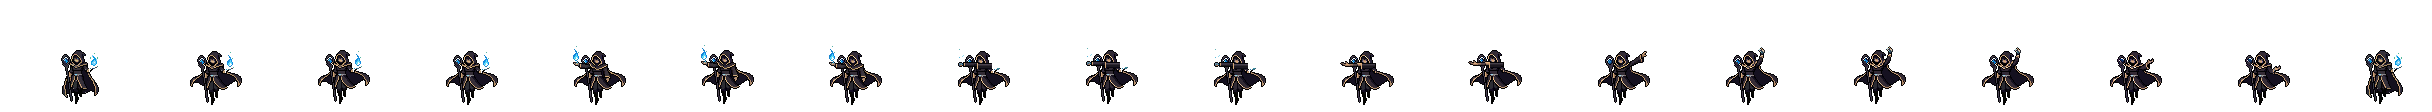
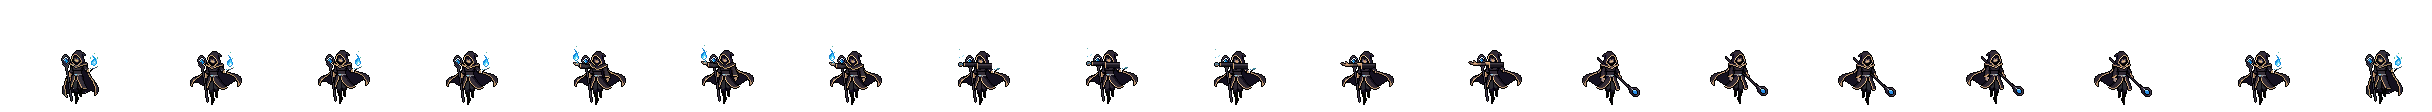
Meteor: pause after the crush, brief spark on the palm, turn away as the meteor drops
Claude-Session: https://claude.ai/code/session_01PAJQvS6MdJB9emcv35BH5f

Changed region(s): [[0.625, 0.4286, 0.9375, 0.9107]]

diff --git a/public/js/scene.js b/public/js/scene.js
@@ -51,7 +51,7 @@ export class BattleScene {
     this.shake = 0; this.shakeT = 0;
     this.trails = []; this.cam = null; this.stars = []; this.rings = []; this.ribbons = []; this.auras = [];
     this.zaps = []; this.ripples = []; this.residue = []; this.xhits = []; this.slivers = []; this.bigArcs = [];   // Champion's Combo: blade aura, ground ripples, leftover crackle
-    this.mets = [];   // Meteor: hand flame, spark, snap, the rock, its explosion and the fire it leaves
+    this.mets = [];   // Meteor: hand flame, spark, the rock, its explosion and the fire it leaves
     this.cracks = []; this.spikes = []; this.ghosts = [];
     this.slowmo = 1;   // <1 plays everything in slow motion (used by the /dev/lab.html animation lab)
     this.freezeUntil = 0;
@@ -888,10 +888,10 @@ export class BattleScene {
   _zig(a, b, n, j) { const pts = [a]; for (let i = 1; i < n; i++) pts.push({ x: lerp(a.x, b.x, i / n) + (Math.random() - 0.5) * j, y: lerp(a.y, b.y, i / n) + (Math.random() - 0.5) * j }); pts.push(b); return pts; }
 
   // Meteor with its PixelLab animation (anims.meteor): the mage floats up, thrusts the flame in her hand out at the enemy
-  // (pointAt), crushes it (crushAt),
-  // opens it on a tiny spark (openAt) that shoots up off the screen (sparkAt), raises her arm and snaps her fingers
-  // (snapAt). A giant meteor then streaks in from the top right and lands on the middle of the enemies (hit): fireball,
-  // shockwave, cracks, rubble and fire left burning on the floor. She floats back down after it (downAt).
+  // (pointAt), crushes it (crushAt) and pauses, then opens her hand on a tiny spark (openAt) that sits a moment and shoots
+  // up off the screen (sparkAt). She turns her back on the enemy, staff pointed at the ground (turnAt), and a giant meteor
+  // streaks in from the top right behind her and lands on the middle of the enemies (hit): fireball, shockwave, cracks,
+  // rubble and fire left burning on the floor. Then she turns back and floats down (downAt).
   _meteorAnim(A, ev, T, anim) {
     const M = anim.meteor;
     const at = []; let acc = 0; for (const [, ms] of anim.timeline) { at.push(acc); acc += ms; }
@@ -915,8 +915,8 @@ export class BattleScene {
     const xs = ens.map(e => e.x), cx = ens.length ? xs.reduce((a, b) => a + b, 0) / xs.length : A.x - 160;
     const cy = ens.length ? ens.reduce((a, e) => a + e.y, 0) / ens.length : A.y;
     const spread = ens.length ? Math.max(56, (Math.max(...xs) - Math.min(...xs)) / 2 + 40) : 60;
-    // close-up on the mage until the snap, then the camera eases out so the meteor and the enemies fit
-    this.cam = { x: A.x - 4, y: A.y - 58, t0: at0, dur: T(at[M.snapAt] + 260), z: 1.12 };
+    // close-up on the mage until she turns away, then the camera eases out so the meteor and the enemies fit
+    this.cam = { x: A.x - 4, y: A.y - 58, t0: at0, dur: T(at[M.turnAt] + 260), z: 1.12 };
     // 1. she rises off the floor on a ring of light
     this.move(A, 0, -(M.lift || 30), T(at[2] + 120));
     this.rune(A.x, A.y, flame); this.burst(A.x, A.y - 2, '#d8c8b0', 10, 24, 20); sfx('cast');
@@ -939,20 +939,17 @@ export class BattleScene {
     });
     // 4. she opens her hand on a tiny spark, which shoots up and out of the top of the screen
     when(M.openAt, () => {
-      this.mets.push({ kind: 'spark', follow: palm, color: flame, t0: now(), hold: T(at[M.sparkAt] - at[M.openAt] + 120), fly: T(420), life: T(at[M.sparkAt] - at[M.openAt] + 120 + 420), pts: [] });
+      this.mets.push({ kind: 'spark', follow: palm, color: flame, t0: now(), hold: T(at[M.sparkAt] - at[M.openAt]), fly: T(420), life: T(at[M.sparkAt] - at[M.openAt] + 420), pts: [] });
       sfx('twinkle');
     });
-    when(M.sparkAt, () => { this.darken = { t0: now(), dur: T(at[anim.hit] - at[M.sparkAt] + 700) }; sfx('rise'); }, 120);
-    // 5. the snap: a click of light at her fingertips
-    when(M.snapAt, () => {
-      const tip = { x: A.x + A.ox + M.snapTip[0], y: A.y + A.oy + M.snapTip[1] };
-      this.mets.push({ kind: 'snap', x: tip.x, y: tip.y, t0: now(), life: T(260) });
-      this.glows.push({ x: tip.x, y: tip.y, r: 22, color: '#fff2c0', t: 0, life: 0.25, a: 0.9 });
-      this.flash = Math.max(this.flash || 0, 0.06);
-      sfx('snap');
+    when(M.sparkAt, () => { this.darken = { t0: now(), dur: T(at[anim.hit] - at[M.sparkAt] + 700) }; sfx('rise'); });
+    // 5. she turns her back on the enemy, staff pointed at the ground: a swish of her cloak
+    when(M.turnAt, () => {
+      for (let i = 0; i < 10; i++) this.particles.push({ x: A.x + A.ox + (Math.random() - 0.5) * 20, y: A.y + A.oy - 10 - Math.random() * 30, vx: 40 + Math.random() * 40, vy: (Math.random() - 0.5) * 20, g: 0, life: 0.3 + Math.random() * 0.2, t: 0, c: Math.random() < 0.5 ? '#8a7aa8' : '#cfc4e0', fade: true });
+      sfx('whoosh');
     });
     // 6. the meteor: its shadow and a burning ring mark the spot, the sky glows red, and it streaks in from the top right
-    const fallFrom = at[M.snapAt] + 120, fall = at[anim.hit] - fallFrom;
+    const fallFrom = at[M.turnAt] + 120, fall = at[anim.hit] - fallFrom;
     setTimeout(() => {
       this.mets.push({ kind: 'mark', x: cx, y: cy, w: spread, t0: now(), life: T(fall + 120) });
       this.mets.push({ kind: 'rock', from: { x: cx + 230, y: cy - 330 }, to: { x: cx, y: cy - 10 }, R: 36, t0: now(), life: T(fall), rot: Math.random() * 6,
@@ -972,9 +969,9 @@ export class BattleScene {
       this.impact(ev, tgt, 'meteor', rc);
       sfx('boom');
     });
-    // 8. she floats back down, and the flame lights up in her hand again
+    // 8. she turns back and floats down, and the flame lights up in her hand again
     when(M.downAt, () => this.move(A, 0, 0, T(acc - at[M.downAt])));
-    setTimeout(() => { const p = palm(); this.glows.push({ x: p.x, y: p.y, r: 18, color: flame, t: 0, life: 0.35, a: 0.8 }); this.burst(p.x, p.y, flame, 8, 20); }, T(acc - 120));
+    setTimeout(() => { const p = palm(); this.glows.push({ x: p.x, y: p.y, r: 18, color: flame, t: 0, life: 0.35, a: 0.8 }); this.burst(p.x, p.y, flame, 8, 20); }, T(at[M.downAt] + 40));
     setTimeout(() => { A.anim = null; this.move(A, 0, 0, T(120)); }, T(acc + 60));
     return T(acc + 450);
   }
@@ -1022,12 +1019,6 @@ export class BattleScene {
         ctx.strokeStyle = 'rgba(255,255,255,0.95)'; ctx.lineWidth = Math.max(1, s * 0.7);
         ctx.beginPath(); ctx.moveTo(X(x) - L, Y(y)); ctx.lineTo(X(x) + L, Y(y)); ctx.moveTo(X(x), Y(y) - L); ctx.lineTo(X(x), Y(y) + L); ctx.stroke();
         ctx.fillStyle = '#ffffff'; ctx.fillRect(X(x) - s, Y(y) - s, 2 * s, 2 * s);
-      } else if (m.kind === 'snap') {   // the click: short rays of light and a ring at the fingertips
-        const e = eo(k / 0.5), a = 1 - k;
-        ctx.strokeStyle = hexA('#fff6d8', a); ctx.lineWidth = Math.max(1, s * 1.1); ctx.lineCap = 'round';
-        for (let j = 0; j < 5; j++) { const ang = -Math.PI / 2 + (j - 2) * 0.6, r0 = (3 + 4 * e) * s, r1 = (5 + 8 * e) * s; ctx.beginPath(); ctx.moveTo(X(m.x) + Math.cos(ang) * r0, Y(m.y) + Math.sin(ang) * r0); ctx.lineTo(X(m.x) + Math.cos(ang) * r1, Y(m.y) + Math.sin(ang) * r1); ctx.stroke(); }
-        ctx.strokeStyle = hexA('#ffd25a', 0.6 * a); ctx.beginPath(); ctx.arc(X(m.x), Y(m.y), (3 + 8 * e) * s, 0, TAU); ctx.stroke();
-        glow(X(m.x), Y(m.y), 9 * s, '#ffffff', 0.8 * a);
       } else if (m.kind === 'mark') {   // the landing spot: a darkening shadow and a burning ring on the floor
         const e = k * k, x = X(m.x), y = Y(m.y), rx = (m.w * (0.5 + 0.7 * e)) * s;
         ctx.globalCompositeOperation = 'source-over';

diff --git a/public/js/audio.js b/public/js/audio.js
@@ -70,7 +70,6 @@ const SFX = {
   vote: () => { tone(660, 0.08, { type: 'sine', vol: 0.1 }); },
   banner: () => { noise(0.5, { freq: 300, q: 0.5, vol: 0.15, type: 'lowpass', slide: 2 }); },
   crush: () => { noise(0.18, { freq: 500, q: 0.9, vol: 0.32, type: 'lowpass', slide: 0.5 }); noise(0.35, { freq: 2500, q: 0.6, vol: 0.1, slide: 0.4, delay: 0.05 }); },   // a fist closing on a flame
-  snap: () => { noise(0.04, { freq: 3800, q: 1.5, vol: 0.5 }); tone(1900, 0.05, { type: 'square', vol: 0.05, slide: 0.6 }); },   // finger snap
   rise: () => { tone(500, 0.5, { type: 'sine', vol: 0.08, slide: 3 }); noise(0.4, { freq: 3000, q: 3, vol: 0.06, slide: 2 }); },
   fall: () => { noise(0.75, { freq: 300, q: 0.8, vol: 0.35, slide: 3.5 }); tone(200, 0.7, { type: 'sawtooth', vol: 0.08, slide: 0.35 }); },   // meteor screaming in
   boom: () => { noise(1.1, { freq: 500, q: 0.5, vol: 0.7, type: 'lowpass', slide: 0.25 }); tone(60, 0.9, { type: 'sine', vol: 0.55, slide: 0.5 }); noise(0.3, { freq: 2200, q: 0.6, vol: 0.25, slide: 0.3 }); },

diff --git a/tools/build_attack.py b/tools/build_attack.py
@@ -88,14 +88,15 @@ EXTRA = {
     'knight:f/combo': dict(base='knight:f', ms=[50, 50, 60, 90,  40, 50, 50, 110,  40, 45, 50, 100,  45, 45, 45, 90,  40, 50, 50, 130,
                                                 70, 60, 60, 60, 60, 80,  260, 260, 260, 260,  70, 60, 60, 70, 45, 45, 70, 420],
                            hit=35, slashAt=[5, 9, 17], holdAt=[26, 29], arcAt=34, blade=28, track='top', dash=18, cast=False),
-    # Meteor (tools/assemble_meteor.py): rise into a hover, thrust the flame out at the enemy ('pointAt'), crush it ('crushAt'), open the hand on a tiny
-    # spark ('openAt') that flies up off the screen ('sparkAt'), raise the arm and snap the fingers ('snapAt'); the
-    # meteor falls while she holds the pose and lands on 'hit', then she floats back down. 'hands' ([from frame, [x, y]]) / 'snapTip': where the
-    # hand is, px from the feet (sprite facing as drawn); 'lift': how high she floats (px); 'flame': the hand flame's colour.
-    'mage:f/meteor': dict(base='mage:f', ms=[120, 140, 160, 120, 90, 220, 200, 120, 230, 200, 160, 420, 90, 160, 300, 420, 200, 160, 300],
-                          hit=16, meteor=dict(pointAt=4, crushAt=7, openAt=10, sparkAt=11, snapAt=13, downAt=16, hands=[[0, [25, -41]], [4, [-13, -43]], [7, [-12, -40]], [10, [-13, -41]]], snapTip=[17, -62], lift=30, flame='#ff8a3c')),
-    'mage:m/meteor': dict(base='mage:m', ms=[120, 140, 160, 120, 90, 220, 200, 120, 230, 200, 160, 420, 90, 160, 300, 420, 200, 160, 300],
-                          hit=16, meteor=dict(pointAt=4, crushAt=7, openAt=10, sparkAt=11, snapAt=13, downAt=16, hands=[[0, [21, -36]], [4, [-15, -43]], [7, [-14, -40]], [10, [-16, -41]]], snapTip=[16, -54], lift=30, flame='#5ab8ff')),
+    # Meteor (tools/assemble_meteor.py): rise into a hover, thrust the flame out at the enemy ('pointAt'), crush it ('crushAt')
+    # and pause, open the hand on a tiny spark ('openAt') that sits a moment then flies up off the screen ('sparkAt'), turn
+    # away from the enemy, staff pointed at the ground ('turnAt'); the meteor falls behind her and lands on 'hit', then she
+    # turns back and floats down ('downAt'). 'hands' ([from frame, [x, y]]): where the
+    # flame hand is, px from the feet (sprite facing as drawn); 'lift': how high she floats (px); 'flame': the hand flame's colour.
+    'mage:f/meteor': dict(base='mage:f', ms=[120, 140, 160, 120, 90, 220, 200, 120, 280, 280, 250, 420, 140, 300, 400, 300, 260, 160, 300],
+                          hit=15, meteor=dict(pointAt=4, crushAt=7, openAt=10, sparkAt=11, turnAt=12, downAt=17, hands=[[0, [25, -41]], [4, [-13, -43]], [7, [-12, -40]], [10, [-13, -41]]], lift=30, flame='#ff8a3c')),
+    'mage:m/meteor': dict(base='mage:m', ms=[120, 140, 160, 120, 90, 220, 200, 120, 280, 280, 250, 420, 140, 300, 400, 300, 260, 160, 300],
+                          hit=15, meteor=dict(pointAt=4, crushAt=7, openAt=10, sparkAt=11, turnAt=12, downAt=17, hands=[[0, [21, -36]], [4, [-15, -43]], [7, [-14, -40]], [10, [-16, -41]]], lift=30, flame='#5ab8ff')),
     'knight:m/power': dict(base='knight:m', ms=[60, 70, 90, 110, 120, 130, 140, 110, 90, 380], hit=9, aura=[1, 7], dashAt=7, dashFrames=8, upswing=9, dash=10, cast=False),
     'knight:f/power': dict(base='knight:f', ms=[60, 70, 110, 120, 130, 140, 110, 90, 380], hit=8, aura=[1, 6], dashAt=6, dashFrames=7, upswing=8, dash=10, cast=False),
 }

diff --git a/tools/assemble_meteor.py b/tools/assemble_meteor.py
@@ -7,8 +7,8 @@ Keyframes were made with edit_image from the attack frame (both mages at once), 
          the arm across (it kept the pose), so the arm was painted over by hand (point_paint in the frames branch)
          and edit_image redrew it in the sprite's style
   pfist  the outstretched hand squeezed shut on the flame      popen  the outstretched hand open again, palm up, empty
-  praise that arm raised to the upper left                     snap   the arm straight up, fingers snapping
-  half / open  the arm halfway up / palm up at her side (on the way back down)
+  away   turned away from the enemy (the float frame mirrored, then edit_image: staff held in one hand pointing at
+         the ground, the free hand relaxed; the gem in the staff head was filled back in by hand)
 PixelLab's pinned in-betweens for these kept adding big spell effects of their own (fire blasts, swooshes), so the
 move is built from the keyframes, plus the few in-betweens whose effect came off as a separate blob (crush1/2 and
 raise) after dropping everything but the body. (Those are no longer used.) The rise and the descent are moved in code.
@@ -20,9 +20,9 @@ from PIL import Image
 
 SEQ = {   # sheet: frame names in play order (see build_attack.py 'mage:*/meteor' for timing and markers)
     'mage':   ['atk0', 'float', 'float+', 'float', 'point', 'point+', 'point', 'pfist', 'pfist+', 'pfist', 'popen', 'popen+',
-               'praise', 'snap', 'snap+', 'snap', 'half', 'open', 'atk0'],
+               'away', 'away+', 'away', 'away+', 'away', 'float', 'atk0'],
     'mage_m': ['atk0', 'float', 'float+', 'float', 'point', 'point+', 'point', 'pfist', 'pfist+', 'pfist', 'popen', 'popen+',
-               'praise', 'snap', 'snap+', 'snap', 'half', 'open', 'atk0'],
+               'away', 'away+', 'away', 'away+', 'away', 'float', 'atk0'],
 }
 
 def lift1(im):

diff --git a/README.md b/README.md
@@ -170,7 +170,7 @@ Hero frames are 84×76 with the feet at (46, 72), facing left. Enemy frame sizes
 
 **Knight Champion's Combo.** Its own 38-frame move (`anims.combo`, 3.5 s): the knight dashes in and lands three slashes (a diagonal cut, a rising cut and a wide horizontal cut, each with its own damage number). Each lands with a cross-slash impact (`crossHit` in `scene.js`): long thin blades of blue light cross at the point of contact (an X, a mirrored X, then a three-blade star; `CROSS_ANGLES`), with a white flare where they meet and blue sparks that burst out and linger as twinkling residue. Then he hops back and raises the sword straight up, and holds it while a big electric aura charges round the blade: a white-hot blade with current running up both edges, crackling side bolts, lightning striking the tip from the sky and the battlefield dimming. Then he lunges in with a downward slash that throws a giant electric slash arc (`bigArc` in `scene.js`): an oval about four times his height that sweeps from above the screen, over him, down through the enemy and into the floor. Its colour bends along the curve (a conic gradient that follows the sweep): white-hot at the leading tip, through cyan and blue to nothing at the tail, with current crackling along it, bolts forking off its edge and sparks thrown from the tip. The close-up eases out just before it so more of it fits on screen; the finisher lands with a flash and leaves electric ripples spreading over the floor and crackling residue for a second and a half (`_comboAnim` in `scene.js`). The frames are eight PixelLab animations chained through keyframes made with `edit_image` (wind-up, low lunge, rising follow-through, horizontal wind-up and follow-through, the charge pose, the low finish), stitched by `tools/assemble_combo.py`; `build_attack.py` marks `slashAt` (where each slash lands), `holdAt` (the held charge), `arcAt` (the giant arc) and `hit` (the finisher).
 
-**Mage Meteor.** Its own 19-frame move (`anims.meteor`, 3.8 s, both mages): she floats up off the floor on a ring of light, holding the flame in her palm (orange for her, blue for him). She thrusts it out across her body at the enemies (it flares and throws embers their way), holds it there, then crushes it in her outstretched fist. Embers squeeze out between her fingers with a puff of smoke, and light leaks from the fist. She opens her hand on a tiny spark, which shoots up and out of the top of the screen; the battlefield dims. She raises her arm and snaps her fingers (a click of light at the fingertips). Then the sky turns red, a shadow and a burning ring mark the middle of the enemies, and one giant meteor (a burning rock with glowing cracks, a white-hot front and a long fiery tail, shedding embers and smoke) streaks in from the top right and lands. The impact: a dome of fire, a tall flash, two shockwaves over the floor, cracks, rubble, sparks and smoke, and fire left burning on the floor for a moment and a half. Every enemy takes the hit and its burn. She floats back down and the flame relights in her hand (`_meteorAnim` / `drawMeteors` in `scene.js`). The frames are keyframes made with `edit_image` (float; the flame held out at the enemy; that hand as a fist, then open; the arm raised up-left; the snap; the arm halfway and palm up for the way down), stitched by `tools/assemble_meteor.py`. PixelLab would not swing the flame arm across her body, so that arm was painted over by hand and `edit_image` then redrew it in the sprite's style. PixelLab's pinned in-betweens for this character kept painting big spell effects of their own (fire blasts, swooshes), so the move cuts between keyframes; the rise and descent are moved in code. `build_attack.py` marks `pointAt`, `crushAt`, `openAt`, `sparkAt`, `snapAt`, `downAt` and `hit`, plus where the hand is from each frame on (`hands`, so the flame glow, embers and spark follow it), the fingertips for the snap (`snapTip`) and the flame colour.
+**Mage Meteor.** Its own 19-frame move (`anims.meteor`, 4.3 s, both mages): she floats up off the floor on a ring of light, holding the flame in her palm (orange for her, blue for him). She thrusts it out across her body at the enemies (it flares and throws embers their way), holds it there, then crushes it in her outstretched fist: embers squeeze out between her fingers with a puff of smoke, and she holds the fist a moment while light leaks from it. She opens her hand on a tiny spark, which sits on her palm for a moment and then shoots up and out of the top of the screen; the battlefield dims. She turns her back on the enemies, staff in one hand pointed at the ground (a swish of her cloak). Then the sky turns red, a shadow and a burning ring mark the middle of the enemies, and one giant meteor (a burning rock with glowing cracks, a white-hot front and a long fiery tail, shedding embers and smoke) streaks in from the top right behind her and lands. The impact: a dome of fire, a tall flash, two shockwaves over the floor, cracks, rubble, sparks and smoke, and fire left burning on the floor for a moment and a half. Every enemy takes the hit and its burn. She turns back, floats down and the flame relights in her hand (`_meteorAnim` / `drawMeteors` in `scene.js`). The frames are keyframes made with `edit_image` (float; the flame held out at the enemy; that hand as a fist, then open; turned away with the staff pointed down), stitched by `tools/assemble_meteor.py`. PixelLab would not swing the flame arm across her body, so that arm was painted over by hand and `edit_image` then redrew it in the sprite's style; the turned-away pose is the float frame mirrored and re-posed. PixelLab's pinned in-betweens for this character kept painting big spell effects of their own (fire blasts, swooshes), so the move cuts between keyframes; the rise and descent are moved in code. `build_attack.py` marks `pointAt`, `crushAt`, `openAt`, `sparkAt`, `turnAt`, `downAt` and `hit`, plus where the flame hand is from each frame on (`hands`, so the flame glow, embers and spark follow it) and the flame colour.
 
 These hand-timed moves are in `EXTRA` in `build_attack.py` (`charge` / `chargeTo` for the growing light, `swing` for the trail, `ring` for the volley's shrinking ring, `aura`, `dashAt` and `upswing` for Power Strike). The volley's raise was pinned to a near-vertical keyframe made with `edit_image`, because PixelLab's free animation would only aim the bow to about 45°.
 
